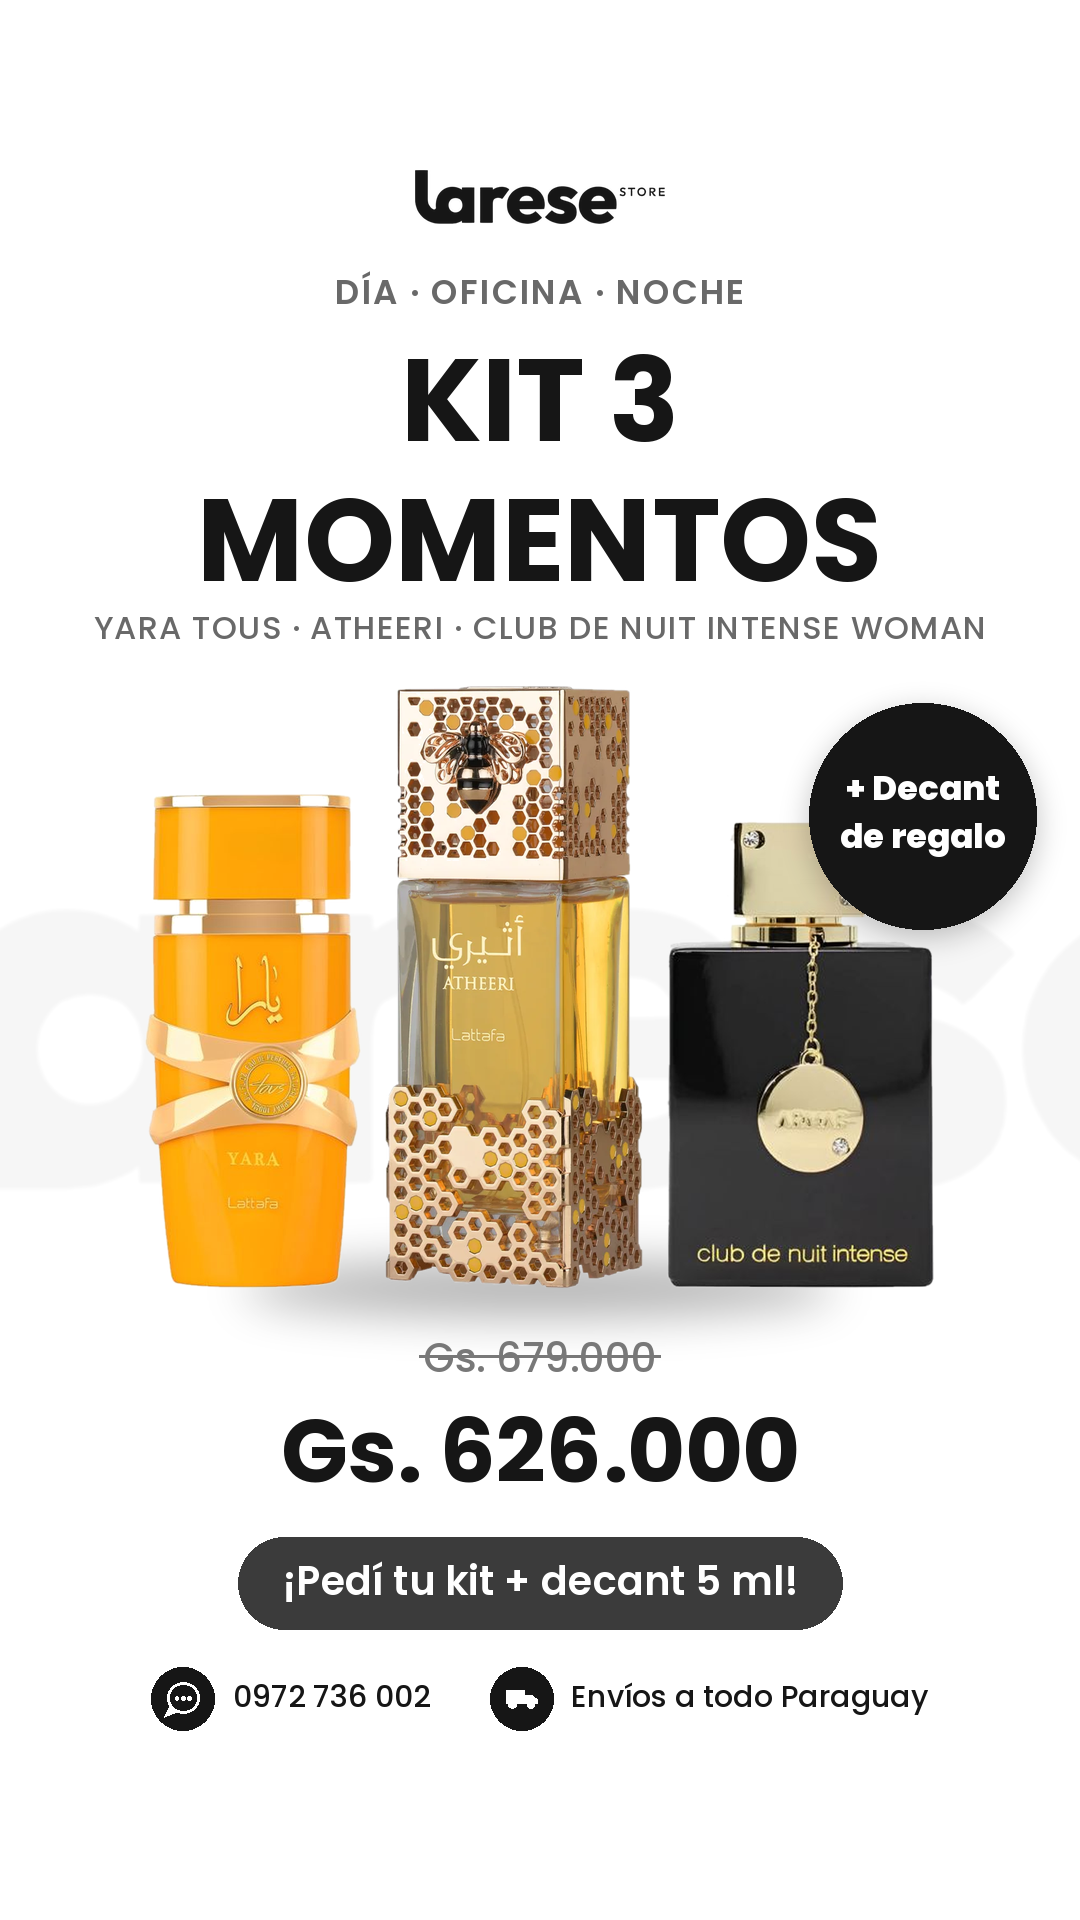
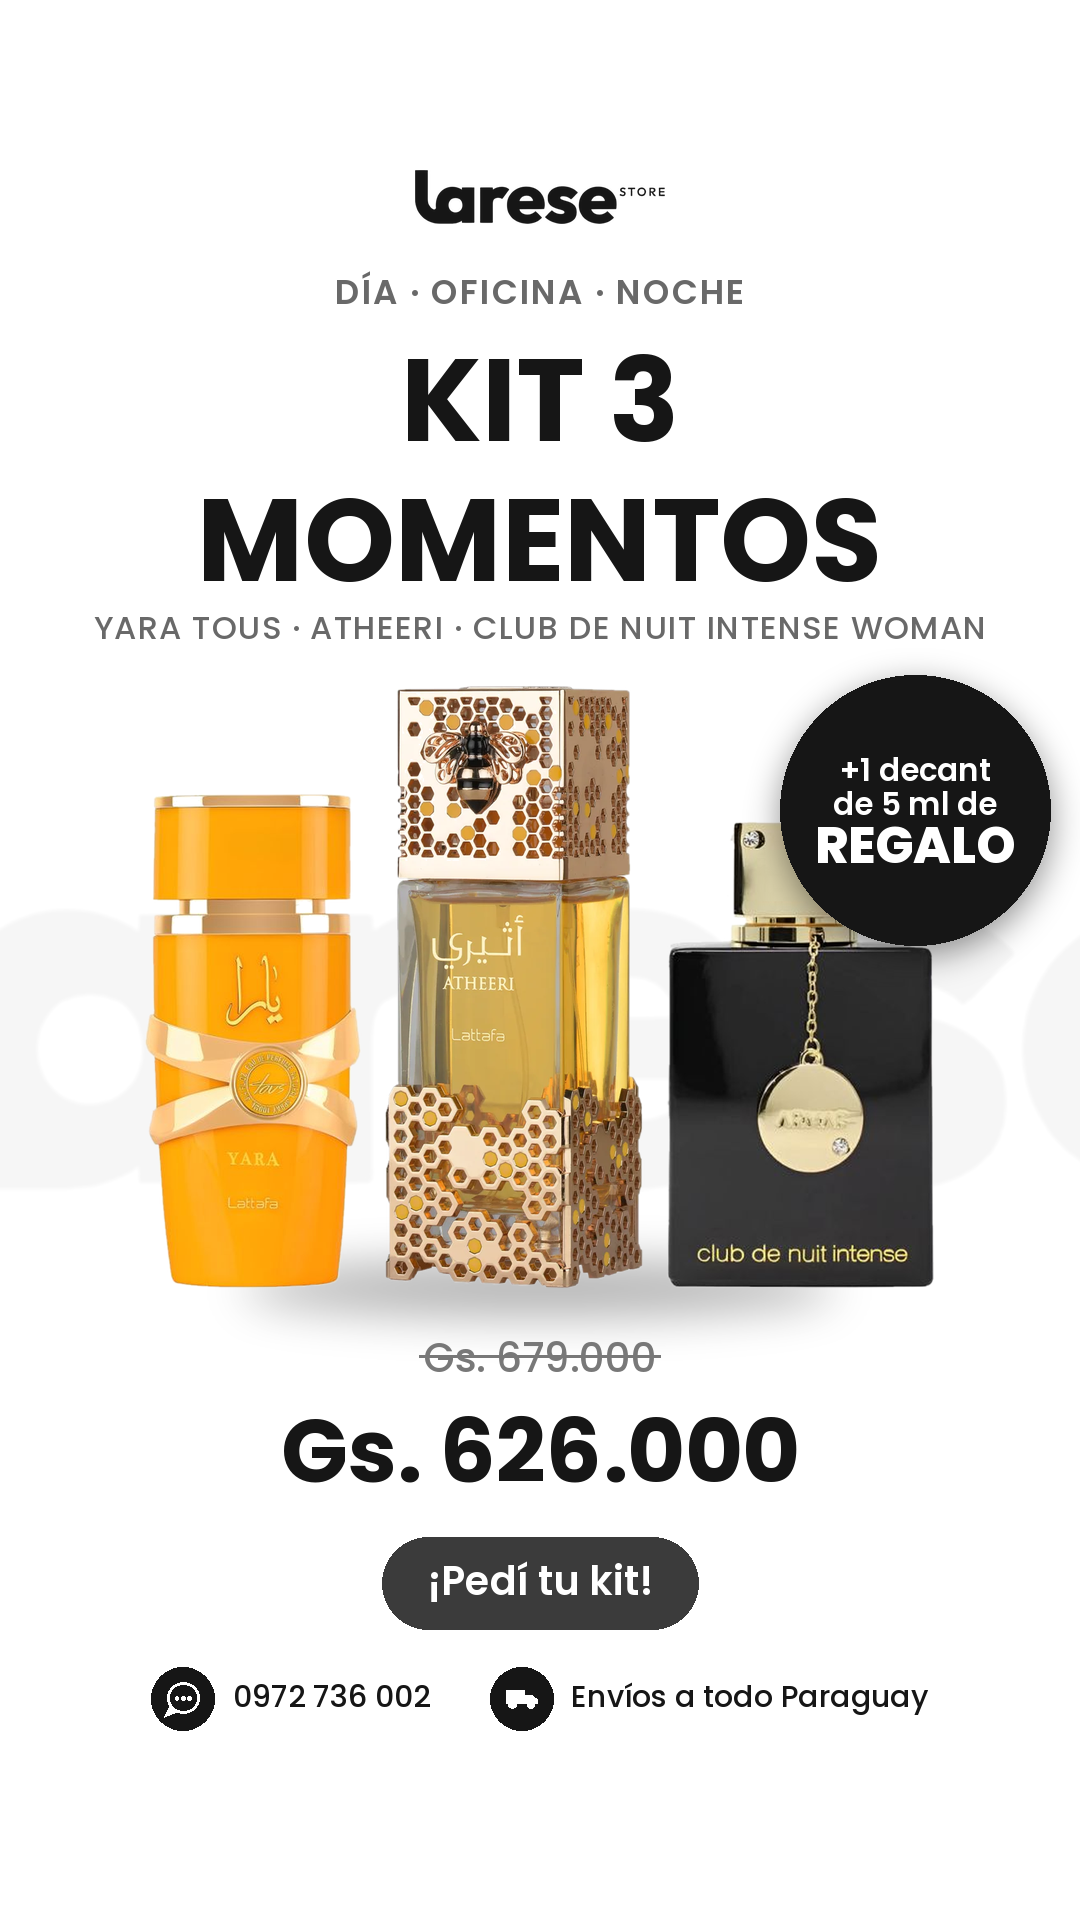
Kit 3 Momentos: sello '+1 decant de 5 ml de REGALO' con REGALO grande
Claude-Session: https://claude.ai/code/session_01DnzkNNpP7PAkmuH5rKEi3z

Changed region(s): [[0.7028, 0.3438, 1.0, 0.5], [0.2139, 0.7812, 0.7944, 0.875]]

diff --git a/anuncio-kit-3-momentos/sello_regalo.py b/anuncio-kit-3-momentos/sello_regalo.py
@@ -1,0 +1,29 @@
+import sys
+from PIL import Image, ImageDraw, ImageFilter, ImageFont
+src, out, cx, cy, r, fonts = sys.argv[1], sys.argv[2], float(sys.argv[3]), float(sys.argv[4]), float(sys.argv[5]), sys.argv[6]
+img = Image.open(src).convert("RGBA")
+sh = Image.new("L", img.size, 0)
+ImageDraw.Draw(sh).ellipse((cx-r, cy-r+10, cx+r, cy+r+10), fill=110)
+sh = sh.filter(ImageFilter.GaussianBlur(16))
+img.alpha_composite(Image.merge("RGBA", [Image.new("L", img.size, 0)]*3 + [sh]))
+d = ImageDraw.Draw(img)
+d.ellipse((cx-r, cy-r, cx+r, cy+r), fill=(22,22,22))
+def fit(text, weight, max_w, start):
+    s = start
+    while True:
+        f = ImageFont.truetype(f"{fonts}/Poppins-{weight}.ttf", s)
+        if d.textlength(text, font=f) <= max_w or s < 10: return f
+        s -= 1
+small1 = fit("+1 decant", "SemiBold", r*1.25, int(r*0.23))
+small2 = fit("de 5 ml de", "SemiBold", r*1.35, small1.size)
+big = fit("REGALO", "ExtraBold", r*1.5, int(r*0.5))
+lines = [("+1 decant", small1), ("de 5 ml de", small2), ("REGALO", big)]
+hs = [f.getbbox(t)[3]-f.getbbox(t)[1] for t, f in lines]
+gap = r*0.08
+total = sum(hs) + gap*2
+y = cy - total/2
+for (t, f), h in zip(lines, hs):
+    bb = f.getbbox(t)
+    d.text((cx - d.textlength(t, font=f)/2, y - bb[1]), t, font=f, fill=(255,255,255))
+    y += h + gap
+img.convert("RGB").save(out)
